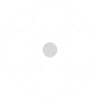
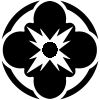
Fix graphics

diff --git a/Credits.md b/Credits.md
@@ -8,6 +8,9 @@ Beliefs:
 City-states:
 * Militaristic: [Blaster](https://thenounproject.com/icon/blaster-4232588/) by iconcheese
 
+Promotions:
+* Darksaber: [katana](https://thenounproject.com/icon/katana-4730056/) by Handicon
+
 Other:
 * WLTK (Life Day) 1 and 2: [orb](https://thenounproject.com/icon/orb-4690193/) by Red
 
